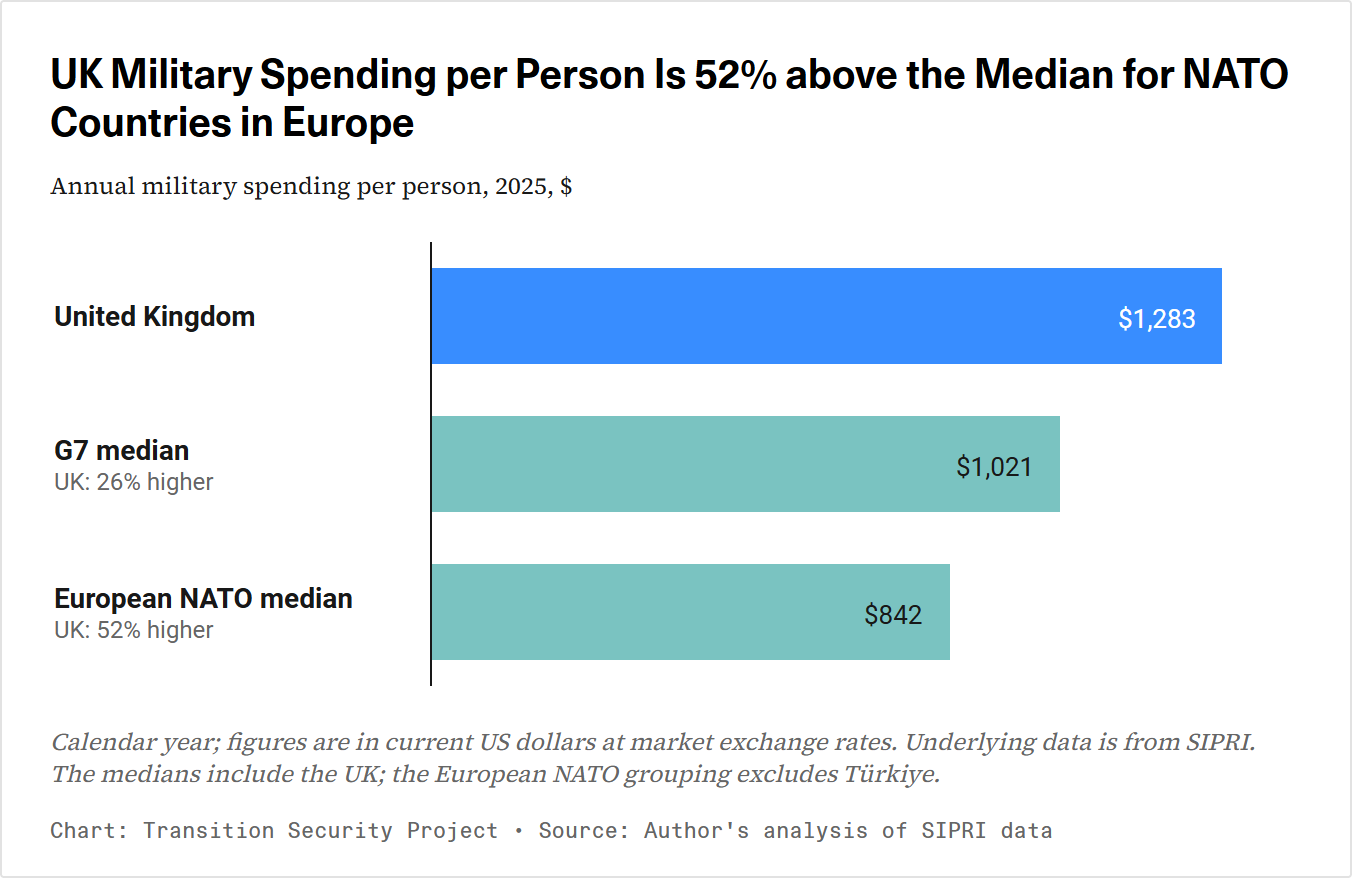
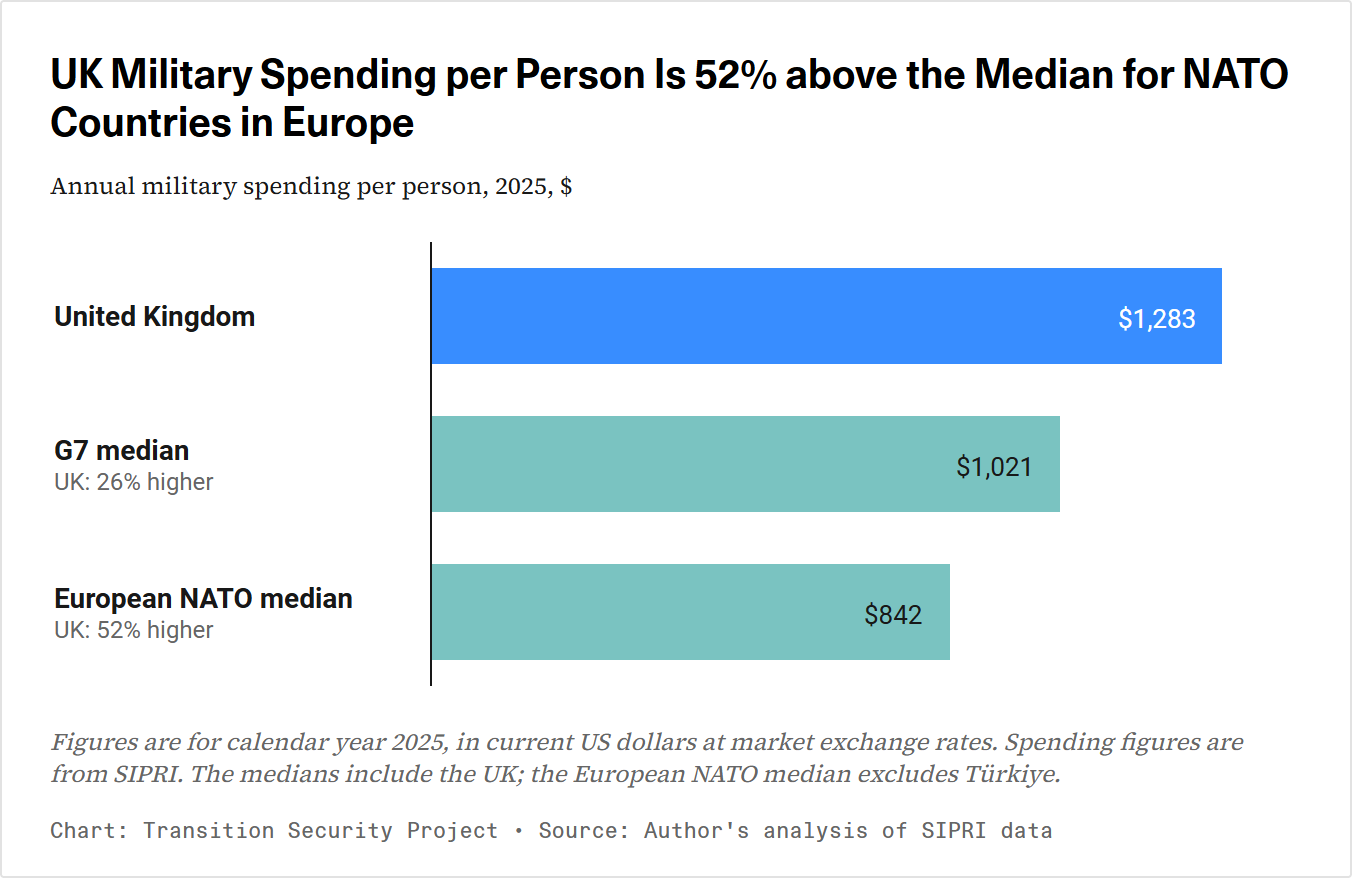
Update the separate pages

Changed region(s): [[0.0311, 0.8284, 0.932, 0.8898]]

diff --git a/js/extra-spending.js b/js/extra-spending.js
@@ -1,4 +1,4 @@
-// The extra spending needed to reach 3.5% of GDP: the announced path against a baseline held at a year's share of GDP,
+// The extra spending needed to reach 3.5% of GDP: the announced path against a baseline held at the base year's share of GDP,
 // and the gap between them, by financial year.
 import { start } from "./data.js";
 import { createModel, DEFAULTS as MODEL_DEFAULTS } from "./model.js";
@@ -17,14 +17,12 @@ start(["model_inputs.json"], (inputs) => {
   const root = document.querySelector("[data-chart-page]");
   const el = (name) => root.querySelector(`[data-el="${name}"]`);
   const prices = `${lab(PRICE_YEAR)} prices`;
-  // The baseline holds spending at the base year's share of GDP, or the year before's.
-  const HELD = { [BASE - 1]: "s2024", [BASE]: "s2025" };
-  const DEFAULTS = { units: "cash", held_year: String(BASE) };
+  // The baseline holds spending at the base year's share of GDP.
+  const HELD = "s2025";
+  const DEFAULTS = { units: "cash" };
   const GROUPS = [
     { key: "units", label: "Units", options: [{ value: "cash", label: "Cash" }, { value: "real", label: `Real terms, ${prices}` }],
       help: (s) => (s.units === "real" ? "Real terms: adjusted for inflation with the GDP deflator, the price of everything the UK produces." : "") },
-    { key: "held_year", label: "Baseline", options: [
-      { value: String(BASE - 1), label: `${lab(BASE - 1)} share of GDP` }, { value: String(BASE), label: `${lab(BASE)} share of GDP` }] },
   ];
   const state = {};
   readHash(GROUPS, state, DEFAULTS);
@@ -146,12 +144,12 @@ start(["model_inputs.json"], (inputs) => {
   function update() {
     writeHash(GROUPS, state, DEFAULTS);
     refresh(GROUPS, state);
-    const o = { ...MODEL_DEFAULTS, held: HELD[state.held_year] };
+    const o = { ...MODEL_DEFAULTS, held: HELD };
     const view = { years: "fy", price: String(PRICE_YEAR), end: LAST };
     const cash = model.extra(o, { ...view, units: "cash" }), realTerms = model.extra(o, { ...view, units: "real" });
     const r = state.units === "cash" ? cash : realTerms;
     const units = state.units === "cash" ? "in cash" : `at ${prices}`;
-    const heldYear = Number(state.held_year);
+    const heldYear = BASE;
     const heldShare = r.sharesHeld[r.years.indexOf(BASE + 1)];
     const small = narrow();
 
@@ -221,14 +219,14 @@ start(["model_inputs.json"], (inputs) => {
     el("notes").textContent = [
       "Years refer to financial years, labelled by their starting year.",
       `Figures are in ${state.units === "cash" ? "cash terms" : `${prices}, using a GDP deflator`}.`,
-      `Underlying data is from NATO; spending in ${lab(BASE)} is a NATO estimate.`,
+      `Spending figures are from NATO; ${lab(BASE)} is a NATO estimate.`,
       `“Extra” is the cumulative gap over ${lab(BASE + 1)}–${lab(LAST)} between the announced path and the baseline, which `
         + `holds military spending at its ${lab(heldYear)} share of GDP, ${heldShare.toFixed(1)}%.`,
       `The announced path follows the Defence Investment Plan to ${lab(PLAN_LAST)}, reaches ${c.TARGETS[UK_TARGET]}% of GDP, `
         + `the government's target, in ${lab(UK_TARGET)}, then rises linearly to ${c.TARGETS[LAST]}%, the NATO target, in `
         + `${lab(LAST)}, using OBR forecasts and long-term assumptions.`,
-      `Some of the gap is a change in what the figures count, not new spending: from ${lab(c.SIA_FROM)} the UK appears to `
-        + "count its whole intelligence budget, which the baseline does not.",
+      `Part of the gap may reflect a change in what is counted: from ${lab(c.SIA_FROM)}, the UK appears to include its `
+        + "entire intelligence budget in the NATO figures.",
     ].join(" ");
     el("source").textContent = "Chart: Transition Security Project • Source: Author's analysis of NATO, MOD, HM Treasury, OBR and ONS data";
   }

diff --git a/js/alignment.js b/js/alignment.js
@@ -123,8 +123,12 @@ start(["alignment.json"], (d) => {
     const total = document.createElement("b");
     total.textContent = `${usd(d.total)}bn`;
     el("total").replaceChildren("Total", total);
-    el("notes").textContent = "Calendar year; figures are in current US dollars at market exchange rates. Underlying data is "
-      + "from SIPRI. US-aligned covers "
+    // The countries without a figure for the year, which SIPRI's world total covers with its own estimates.
+    const n = d.estimated_countries, words = ["no", "one", "two", "three", "four", "five", "six", "seven", "eight", "nine", "ten"];
+    const estimates = n ? `; the world total includes SIPRI estimates for ${words[n] ?? n} ${n === 1 ? "country" : "countries"} `
+      + `without ${d.year} figures` : "";
+    el("notes").textContent = `Figures are for calendar year ${d.year}, in current US dollars at market exchange rates. `
+      + `Spending figures are from SIPRI${estimates}. US-aligned covers `
       + "NATO members, US major non-NATO allies, Shield of the Americas members and US security partners, and includes "
       + `EU-level expenditure. The US-aligned grouping is ${d.aligned_entities} entities; ${d.not_aligned_countries} countries `
       + `are classified as not US-aligned. Classification is as of ${d.classified_as_of}.`;

diff --git a/js/historical.js b/js/historical.js
@@ -156,13 +156,11 @@ start(["model_inputs.json"], (inputs) => {
     el("notes").textContent = [
       "Years refer to financial years, labelled by their starting year.",
       `Figures are in ${prices}, using a GDP deflator.`,
-      `Underlying data is from NATO; spending in ${lab(BASE)} is a NATO estimate.`,
+      `Spending figures are from NATO; ${lab(BASE)} is a NATO estimate.`,
       `The Cold War peak is the highest year in ${lab(c.COLD_WAR_FULL[0])}–${lab(c.COLD_WAR_FULL[1])}.`,
       `The announced path (dashed) follows the Defence Investment Plan to ${lab(PLAN_LAST)}, reaches ${c.TARGETS[UK_TARGET]}% `
         + `of GDP, the government's target, in ${lab(UK_TARGET)}, then rises linearly to ${c.TARGETS[LAST]}%, the NATO target, `
         + `in ${lab(LAST)}, using OBR forecasts and long-term assumptions.`,
-      `Some of the rise is a change in what the figures count, not new spending: from ${lab(c.SIA_FROM)} the UK appears to `
-        + `count its whole intelligence budget, which NATO figures to ${lab(BASE)} do not.`,
     ].join(" ");
     el("source").textContent = "Chart: Transition Security Project • Source: Author's analysis of NATO, MOD, HM Treasury, OBR and ONS data";
   }

diff --git a/css/style.css b/css/style.css
@@ -28,7 +28,6 @@ body { margin: 0; color: var(--ink); font-family: var(--mono); font-size: 14px; 
 .visually-hidden { position: absolute; width: 1px; height: 1px; overflow: hidden; clip-path: inset(50%); white-space: nowrap; }
 /* The options sit below the chart, ruled off from it and from the caption. */
 .options { border-top: 1px solid var(--grid); border-bottom: 1px solid var(--grid); margin: 0 0 16px; padding: 16px 0; }
-.options-title { font-family: var(--sans); font-size: 20px; color: var(--ink); margin: 0 0 16px; }
 .chart-title { font-family: var(--sans); font-size: 20px; color: var(--title); line-height: 1.2; margin: 0 0 12px; }
 .description { font-family: var(--serif); font-size: 12px; line-height: 1.35; margin: 0 0 16px; }
 
@@ -74,7 +73,7 @@ body { margin: 0; color: var(--ink); font-family: var(--mono); font-size: 14px; 
 @media (max-width: 499px) {
   .dw { padding: 6px 8px 12px; }
   .card { padding: 18px 14px 14px; }
-  .options-title, .chart-title { font-size: 16px; }
+  .chart-title { font-size: 16px; }
   .group { display: block; }
   .group-label { display: block; font-size: 12px; margin: 0 0 4px; }
   .group-note { font-size: 10px; margin-top: 4px; }

diff --git a/js/per-person.js b/js/per-person.js
@@ -54,8 +54,8 @@ start(["per_person.json"], (d) => {
     chart.redraw();
     setTitle(el("title"), `UK Military Spending per Person Is ${higher(europe)}% above the Median for NATO Countries in Europe`);
     el("description").textContent = `Annual military spending per person, ${d.year}, $`;
-    el("notes").textContent = "Calendar year; figures are in current US dollars at market exchange rates. Underlying data is "
-      + "from SIPRI. The medians include the UK; the European NATO grouping excludes Türkiye.";
+    el("notes").textContent = `Figures are for calendar year ${d.year}, in current US dollars at market exchange rates. `
+      + `Spending figures are from SIPRI. The medians include the UK; the ${europe.label} excludes Türkiye.`;
     el("source").textContent = "Chart: Transition Security Project • Source: Author's analysis of SIPRI data";
   }
 

diff --git a/extra-spending/index.html b/extra-spending/index.html
@@ -20,8 +20,7 @@
       <p class="description" data-el="description"></p>
       <div class="chart" data-el="chart"></div>
       <div class="options">
-        <h2 class="options-title" id="options-title">Assumptions</h2>
-        <section class="controls" data-el="controls" aria-labelledby="options-title"></section>
+        <section class="controls" data-el="controls" aria-label="Chart options"></section>
       </div>
       <p class="notes" data-el="notes"></p>
       <footer class="footer">
